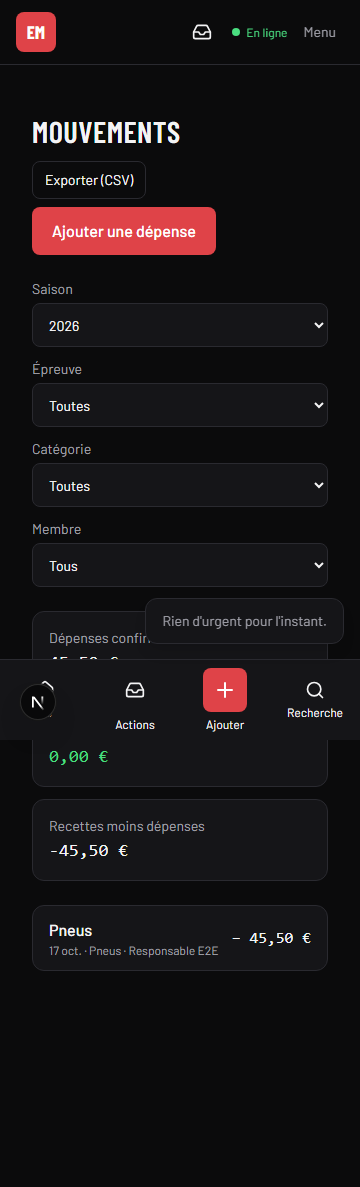
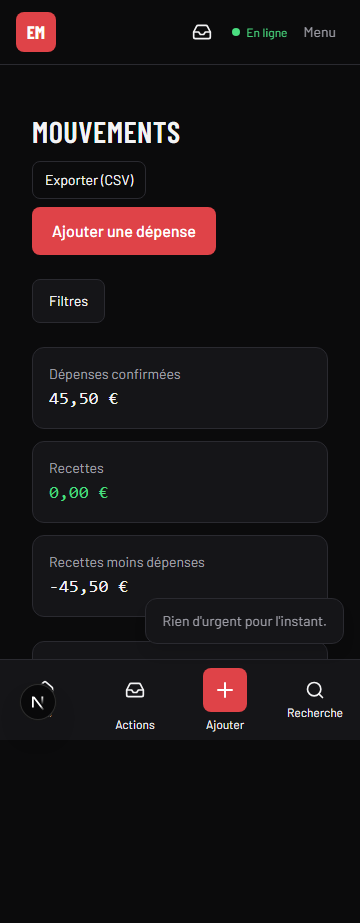
Teste et documente les liaisons Saison-Budget (2.7)
E2E : paiement d'engagement proposé et confirmé sans doublon ; dépense
d'engagement puis « marquer payé » sans nouvelle proposition ; tiroir de
filtres, onglet Dépenses, solde, modification et suppression ; captures.
Vérifications : db:verifier-bus (section 14, non-boucle dans les deux sens,
widgets, modification et suppression), db:verifier-synchro (dépenses hors
ligne : création, refus de la caisse pour l'assistance, modification,
suppression). Documentation : schémas, événements, contrat d'onglets, synchro,
journal.

diff --git a/e2e/budget-saison.spec.ts b/e2e/budget-saison.spec.ts
@@ -1,0 +1,170 @@
+import type { Page } from "@playwright/test"
+
+import { expect, test } from "./aide/fixtures"
+import { connecterParLien } from "./aide/navigation"
+import { ajouterVoitureDeCourse, depenseBudgetParLibelle, depensesBudgetEnBase, preparerSaison, rattacherPersonne } from "./aide/session"
+
+// Liaisons Saison et Budget (tâche 2.7) : un paiement d'engagement dans Saison propose une dépense dans Budget ;
+// une dépense d'engagement saisie dans Budget demande « marquer payé » à Saison, sans boucle. Plus l'onglet
+// Dépenses de la fiche épreuve, le tiroir de filtres sur téléphone, le solde de la barre haute, et la
+// modification et suppression d'une dépense.
+
+const SAISON = 2026
+
+// Crée une épreuve, puis engage la voiture de test. Renvoie l'adresse de la fiche épreuve et celle de l'engagement.
+async function engagerLaVoiture(page: Page): Promise<{ fiche: string; engagement: string; entryId: string }> {
+  await page.goto("/apps/saison/nouvelle")
+  await page.getByLabel("Nom de l'épreuve").fill("Rallye liaison e2e")
+  await page.getByLabel("Premier jour").fill(`${SAISON}-06-10`)
+  await page.getByLabel("Dernier jour").fill(`${SAISON}-06-11`)
+  await page.getByRole("button", { name: "Ajouter l'épreuve" }).click()
+  await expect(page).toHaveURL(/\/apps\/saison\/epreuves\/[0-9a-f-]+/)
+  const fiche = page.url().split("?")[0]
+  await page.goto(`${fiche}?onglet=engagements`)
+  await page.getByLabel("Voiture").selectOption({ label: "Saxo test e2e" })
+  await page.getByRole("button", { name: "Engager la voiture" }).click()
+  await expect(page.getByText("Saxo test e2e").first()).toBeVisible()
+  await page.getByRole("link", { name: /Saxo test e2e/ }).first().click()
+  const engagement = page.url().split("?")[0]
+  return { fiche, engagement, entryId: engagement.split("/").pop() ?? "" }
+}
+
+test("liaison : un paiement d'engagement propose une dépense, confirmée depuis À confirmer, sans doublon", async ({ page, equipe }) => {
+  test.setTimeout(240_000)
+  await preparerSaison(equipe, SAISON)
+  await ajouterVoitureDeCourse(equipe)
+  await rattacherPersonne(equipe, equipe.responsable, "Responsable", "E2E")
+  await connecterParLien(page, equipe)
+  await page.setViewportSize({ width: 1440, height: 900 })
+
+  const { engagement } = await engagerLaVoiture(page)
+  await page.getByLabel("Montant payé (€)").fill("450")
+  await page.getByLabel("Payeur").selectOption({ index: 1 })
+  await page.getByRole("button", { name: "Enregistrer le paiement" }).click()
+  await expect(page.getByText("Enregistré.")).toBeVisible()
+
+  // Une seule proposition dans À confirmer, de 450 €.
+  await page.goto("/apps/budget/a-confirmer")
+  await expect(page.getByRole("heading", { name: /Engagement Rallye liaison e2e/ })).toBeVisible()
+  await expect(page.getByRole("heading", { name: /Engagement Rallye liaison e2e/ })).toHaveCount(1)
+  await page.getByRole("button", { name: "Confirmer" }).click()
+  await expect(page.getByRole("heading", { name: /Engagement Rallye liaison e2e/ })).toHaveCount(0)
+  await expect.poll(async () => (await depensesBudgetEnBase(equipe)).some((d) => d.libelle.startsWith("Engagement Rallye") && d.montant === 45_000)).toBe(true)
+
+  // Une seule dépense pour cet engagement, après la confirmation (le second paiement est couvert par db:verifier-bus).
+  expect((await depensesBudgetEnBase(equipe)).filter((d) => d.libelle.startsWith("Engagement Rallye")).length).toBe(1)
+  void engagement
+})
+
+test("liaison : une dépense d'engagement saisie dans Budget demande « marquer payé » à Saison, sans nouvelle proposition", async ({ page, equipe }) => {
+  test.setTimeout(240_000)
+  await preparerSaison(equipe, SAISON)
+  await ajouterVoitureDeCourse(equipe)
+  await rattacherPersonne(equipe, equipe.responsable, "Responsable", "E2E")
+  await connecterParLien(page, equipe)
+  await page.setViewportSize({ width: 1440, height: 900 })
+
+  const { fiche, engagement } = await engagerLaVoiture(page)
+  const eventId = fiche.split("/").pop() ?? ""
+
+  // La dépense d'engagement, saisie dans Budget et rattachée à l'engagement.
+  await page.goto(`/apps/budget/nouvelle?epreuve=${eventId}`)
+  await page.getByLabel("Montant (€)").fill("450")
+  await page.getByLabel("Catégorie", { exact: true }).selectOption({ label: "Engagement" })
+  await page.getByText("Plus de détails").click()
+  await page.getByLabel(/Engagement concerné/).selectOption({ index: 1 })
+  await page.getByRole("button", { name: "Ajouter la dépense" }).click()
+  await expect(page.getByText("Enregistré. La dépense part")).toBeVisible()
+
+  // Dans la boîte d'actions du QG : Saison demande de marquer l'engagement payé. On décide : il est payé.
+  await expect.poll(async () => (await depensesBudgetEnBase(equipe)).some((d) => d.libelle === "Engagement" && d.montant === 45_000)).toBe(true)
+  await page.goto("/qg")
+  await page.getByRole("button", { name: /Boîte d'actions/ }).click()
+  await expect(page.getByText("Marquer l'engagement comme payé ?").first()).toBeVisible()
+  await page.getByRole("button", { name: "Marquer payé" }).first().click()
+  await page.goto(engagement)
+  await expect(page.getByText("Payé").first()).toBeVisible()
+
+  // Le paiement qui suit ne propose rien à Budget : aucune proposition pour cet engagement.
+  await page.goto("/apps/budget/a-confirmer")
+  await expect(page.getByRole("heading", { name: /Engagement Rallye liaison e2e/ })).toHaveCount(0)
+})
+
+test("budget : tiroir de filtres et pastilles sur téléphone, onglet Dépenses, solde, modification et suppression", async ({ page, equipe }) => {
+  test.setTimeout(240_000)
+  await preparerSaison(equipe, SAISON)
+  await ajouterVoitureDeCourse(equipe)
+  await rattacherPersonne(equipe, equipe.responsable, "Responsable", "E2E")
+  await connecterParLien(page, equipe)
+  await page.setViewportSize({ width: 1440, height: 900 })
+
+  const { fiche } = await engagerLaVoiture(page)
+  const eventId = fiche.split("/").pop() ?? ""
+  await page.goto(`/apps/budget/nouvelle?epreuve=${eventId}`)
+  await page.getByLabel("Montant (€)").fill("30,00")
+  await page.getByLabel("Catégorie", { exact: true }).selectOption({ label: "Péages" })
+  await page.getByRole("button", { name: "Ajouter la dépense" }).click()
+  await expect.poll(async () => (await depensesBudgetEnBase(equipe)).some((d) => d.libelle === "Péages")).toBe(true)
+
+  // Solde de la barre haute : une dépense confirmée, pas de recette, donc négatif.
+  await page.goto("/apps/budget")
+  const commencer = page.getByRole("button", { name: "Commencer" })
+  if (await commencer.isVisible().catch(() => false)) await commencer.click()
+  await expect(page.getByRole("link", { name: /Solde de la saison/ })).toBeVisible()
+
+  // Onglet Dépenses de la fiche épreuve : la dépense y figure, avec le bouton de saisie prérempli.
+  await page.goto(`${fiche}?onglet=depenses`)
+  await expect(page.getByRole("link", { name: "Ajouter une dépense" })).toHaveAttribute("href", `/apps/budget/nouvelle?epreuve=${eventId}`)
+  await expect(page.getByText("Péages").first()).toBeVisible()
+
+  // Téléphone : les filtres sont dans un tiroir ; un filtre actif devient une pastille retirable.
+  await page.setViewportSize({ width: 360, height: 740 })
+  await page.goto("/apps/budget")
+  await page.getByRole("button", { name: /^Filtres/ }).click()
+  await page.getByRole("dialog").getByRole("combobox", { name: "Catégorie" }).selectOption({ label: "Péages" })
+  await page.keyboard.press("Escape")
+  await expect(page.getByRole("list", { name: "Filtres actifs" }).getByText("Péages")).toBeVisible()
+
+  // Modification puis suppression de la dépense (case de confirmation).
+  const depense = await depenseBudgetParLibelle(equipe, "Péages")
+  await page.goto(`/apps/budget/mouvement/${depense?.id ?? ""}`)
+  await page.getByLabel("Montant (€)").fill("35,00")
+  await page.getByRole("button", { name: "Enregistrer les modifications" }).click()
+  await expect(page.getByText("Enregistré.")).toBeVisible()
+  await expect.poll(async () => (await depenseBudgetParLibelle(equipe, "Péages"))?.montant).toBe(3500)
+  await page.getByLabel("Je confirme la suppression de ce mouvement.").check()
+  await page.getByRole("button", { name: "Supprimer" }).click()
+  await expect.poll(async () => depenseBudgetParLibelle(equipe, "Péages")).toBeNull()
+})
+
+// Captures : barre haute avec le solde, onglet Dépenses de la fiche épreuve, tiroir de filtres (téléphone).
+test("captures des liaisons : barre haute, onglet Dépenses, tiroir de filtres", async ({ page, equipe }) => {
+  test.setTimeout(240_000)
+  await preparerSaison(equipe, SAISON)
+  await ajouterVoitureDeCourse(equipe)
+  await rattacherPersonne(equipe, equipe.responsable, "Responsable", "E2E")
+  await connecterParLien(page, equipe)
+  await page.setViewportSize({ width: 1440, height: 900 })
+  const { fiche } = await engagerLaVoiture(page)
+  const eventId = fiche.split("/").pop() ?? ""
+  await page.goto(`/apps/budget/nouvelle?epreuve=${eventId}`)
+  await page.getByLabel("Montant (€)").fill("120,00")
+  await page.getByLabel("Catégorie", { exact: true }).selectOption({ label: "Péages" })
+  await page.getByRole("button", { name: "Ajouter la dépense" }).click()
+  await expect.poll(async () => (await depensesBudgetEnBase(equipe)).some((d) => d.libelle === "Péages")).toBe(true)
+
+  await page.goto("/apps/budget")
+  const commencer = page.getByRole("button", { name: "Commencer" })
+  if (await commencer.isVisible().catch(() => false)) await commencer.click()
+  await expect(page.getByRole("link", { name: /Solde de la saison/ })).toBeVisible()
+  await page.screenshot({ path: "docs/captures/budget-barre-haute-1440x900.png" })
+  await page.goto(`${fiche}?onglet=depenses`)
+  await page.screenshot({ path: "docs/captures/budget-onglet-depenses-1440x900.png", fullPage: true })
+
+  await page.setViewportSize({ width: 360, height: 740 })
+  await page.goto(`${fiche}?onglet=depenses`)
+  await page.screenshot({ path: "docs/captures/budget-onglet-depenses-360x740.png", fullPage: true })
+  await page.goto("/apps/budget")
+  await page.getByRole("button", { name: /^Filtres/ }).click()
+  await page.screenshot({ path: "docs/captures/budget-filtres-tiroir-360x740.png" })
+})

diff --git a/scripts/verifier-bus.ts b/scripts/verifier-bus.ts
@@ -60,7 +60,8 @@ async function main() {
 
     const ctx = { teamId: team.id, userId: utilisateur.id, membership: { id: adhesion, role: "responsable" as const } }
 
-    // 1. Un événement d'app vers un abonné explicite : livré, sans gestionnaire, marqué traité.
+    // 1. Un événement d'app vers un abonné explicite : livré, marqué traité, sans erreur.
+    //    (Budget écoute saison.engagement_paye depuis la 2.7 ; une charge utile invalide est ignorée sans erreur.)
     const idPaye = await emettre(ctx, "saison.engagement_paye", { demo: true })
     const livraisonsPaye = await proprietaire.coreEventDelivery.findMany({ where: { domainEventId: idPaye } })
     controle(
@@ -69,8 +70,8 @@ async function main() {
       `livraisons : ${livraisonsPaye.length}`,
     )
     controle(
-      "la livraison est traitée, sans gestionnaire",
-      livraisonsPaye[0]?.statut === "traite" && livraisonsPaye[0]?.derniereErreur === "aucun gestionnaire",
+      "la livraison est traitée, sans erreur",
+      livraisonsPaye[0]?.statut === "traite" && livraisonsPaye[0]?.derniereErreur === null,
       `statut : ${livraisonsPaye[0]?.statut}`,
     )
 
@@ -426,6 +427,50 @@ async function main() {
       refusRemb = erreur instanceof budget.ErreurBudget ? erreur.message : String(erreur)
     }
     controle("un remboursement qui dépasse le reste dû est refusé", refusRemb.includes("dépasse"), refusRemb)
+
+    // 14. Liaisons Saison-Budget (tâche 2.7) : une app propose, elle n'écrit jamais chez l'autre ; pas de boucle
+    //     dans les deux sens ; un seul mouvement ; widgets lus en base ; modification et suppression d'une dépense.
+    const liaisons = await import("../src/apps/budget/liaisons-serveur")
+    const widgets = await import("../src/apps/budget/widgets-serveur")
+    controle("aucune proposition pour l'engagement avant le premier paiement", (await proprietaire.budgetSuggestion.count({ where: { teamId: team.id, entryId: entryFuture, deletedAt: null } })) === 0)
+    await emettre(ctx, "saison.engagement_paye", { entryId: entryFuture, eventId: epreuveFutureBus.id, montant_paye: 45_000, devise: "EUR", payeurPersonId: personneBus })
+    await emettre(ctx, "saison.engagement_paye", { entryId: entryFuture, eventId: epreuveFutureBus.id, montant_paye: 46_000, devise: "EUR", payeurPersonId: personneBus })
+    const propositions = await proprietaire.budgetSuggestion.findMany({ where: { teamId: team.id, entryId: entryFuture, deletedAt: null } })
+    controle(
+      "un paiement d'engagement propose une dépense ; le second paiement met à jour la même proposition",
+      propositions.length === 1 && propositions[0].montant === 46_000 && propositions[0].statut === "en_attente",
+      JSON.stringify(propositions.map((p) => [p.montant, p.statut])),
+    )
+    const actionProposition = await proprietaire.coreAction.findFirst({ where: { teamId: team.id, cleUnicite: propositions[0]?.actionCle ?? "" } })
+    await decider(ctx, actionProposition?.id ?? "", "confirmer")
+    const depenseDeSaison = await proprietaire.budgetExpense.findFirst({ where: { teamId: team.id, entryId: entryFuture, deletedAt: null } })
+    controle("la confirmation crée la dépense, confirmée, avec l'origine saison:<entrée>", depenseDeSaison?.confirmee === true && depenseDeSaison?.origineRef === `saison:${entryFuture}`, depenseDeSaison?.origineRef ?? "aucune dépense")
+    controle("une dépense venant de Saison ne demande pas de « marquer payé » en retour", (await proprietaire.coreAction.count({ where: { teamId: team.id, cleUnicite: `marquer_paye:${entryFuture}` } })) === 0)
+    controle("un seul mouvement pour cet engagement, après les deux paiements et la confirmation", (await proprietaire.budgetExpense.count({ where: { teamId: team.id, entryId: entryFuture, deletedAt: null } })) === 1)
+
+    // Dans l'autre sens : une dépense d'engagement saisie dans Budget demande « marquer payé » à Saison, et le
+    // paiement qui suit ne propose plus rien à Budget.
+    const entreeDirecte = await creerEngagementDans(ctx, { eventId: epreuveBudget, vehicleId: vehiculeBus.id })
+    await budget.creerDepenseDans(ctx, { montant: 30_000, categoryId: catEngagement, libelle: "Engagement direct", eventId: epreuveBudget, entryId: entreeDirecte, payerId: payeurMoi?.id ?? "" }, "ecriture")
+    controle("une dépense d'engagement saisie dans Budget demande « marquer payé » à Saison", (await proprietaire.coreAction.count({ where: { teamId: team.id, cleUnicite: `marquer_paye:${entreeDirecte}`, statut: "en_attente" } })) === 1)
+    const lue = await liaisons.lireDepenseEngagementDans(ctx, entreeDirecte)
+    controle("Saison lit la dépense d'engagement par la fonction de Budget", lue.montant === 30_000 && lue.mode === "virement", JSON.stringify(lue))
+    await emettre(ctx, "saison.engagement_paye", { entryId: entreeDirecte, eventId: epreuveBudget, montant_paye: 30_000, devise: "EUR", payeurPersonId: personneBus })
+    controle("le paiement de cet engagement ne propose rien en retour : pas de boucle", (await proprietaire.budgetSuggestion.count({ where: { teamId: team.id, entryId: entreeDirecte, deletedAt: null } })) === 0)
+
+    // Widgets lus en base.
+    controle("le widget « mouvements à confirmer » compte les suggestions en attente", (await widgets.widgetMouvementsAConfirmerDans(ctx)) === (await proprietaire.budgetSuggestion.count({ where: { teamId: team.id, statut: "en_attente", deletedAt: null } })))
+    const widgetSaison = await widgets.widgetSaisonContrePrevisionnelDans(ctx)
+    controle("le widget saison renvoie rien tant qu'aucune saison n'est en cours, ou un chiffre réel", widgetSaison === null || typeof widgetSaison.reelCentimes === "number")
+
+    // Modification et suppression d'une dépense (même règle en ligne et en synchro).
+    const idSaison = depenseDeSaison?.id ?? ""
+    await budget.modifierDepenseDans(ctx, idSaison, { montant: 47_000, categoryId: catEngagement, libelle: "Engagement modifié", payerId: depenseDeSaison?.payerId ?? "", eventId: epreuveBudget }, "ecriture")
+    const modifiee = await proprietaire.budgetExpense.findUnique({ where: { id: idSaison } })
+    controle("une dépense modifiée prend ses nouveaux montant et libellé", modifiee?.montant === 47_000 && modifiee?.libelle === "Engagement modifié")
+    await budget.supprimerDepenseDans(ctx, idSaison, "ecriture")
+    const supprimee = await proprietaire.budgetExpense.findUnique({ where: { id: idSaison } })
+    controle("une dépense supprimée reste en base, marquée supprimée", supprimee?.deletedAt != null)
 
     console.log("\nBus et boîte d'actions vérifiés : tous les contrôles passent.")
   } finally {

diff --git a/scripts/verifier-synchro.ts b/scripts/verifier-synchro.ts
@@ -254,6 +254,37 @@ async function main(): Promise<void> {
       operation({ table: "saison_recce_session", type: "creer", id: newId(), champs: { recceId: recceSync, date: "2032-06-02", personnes: [], speciales: [], passages: null, notes: null } }),
     ])
     controle("une saison clôturée n'accepte plus de sortie hors ligne", apresCloture[0]?.statut === "refusee" && /clôturée/.test(apresCloture[0]?.raison ?? ""))
+
+    // Budget hors ligne (tâche 2.7, section 0) : l'équipier saisit, modifie et supprime sa dépense par la même
+    // synchro ; il ne saisit pas la dépense payée par la caisse ; chaque création émet ses événements une fois.
+    const budgetServices = await import("../src/apps/budget/services-serveur")
+    await budgetServices.initialiserBudgetDans(ctxA)
+    const personneEquipier = newId()
+    await bd.corePerson.create({ data: { id: personneEquipier, teamId, nom: "Equipier", prenom: "Synchro" } })
+    await bd.coreMembership.update({ where: { id: eqMemId }, data: { personId: personneEquipier } })
+    await budgetServices.initialiserBudgetDans(ctxA)
+    const categorieRepas = await bd.budgetCategory.findFirst({ where: { teamId, nom: "Repas", sens: "depense" }, select: { id: true } })
+    const payeurEquipier = await bd.budgetPayer.findFirst({ where: { teamId, personId: personneEquipier }, select: { id: true } })
+    const caisse = await bd.budgetPayer.findFirst({ where: { teamId, type: "caisse_team" }, select: { id: true } })
+    const idDepenseHL = newId()
+    const champsDepense = { date: "2032-06-03", montant: 1200, categoryId: categorieRepas?.id ?? "", libelle: "Repas synchro", payerId: payeurEquipier?.id ?? "", eventId: null, moyen: null }
+    const creationHL = await appliquerOperations(ctxEquipage, devA, [operation({ table: "budget_expense", type: "creer", id: idDepenseHL, champs: champsDepense })])
+    const depenseHL = await bd.budgetExpense.findUnique({ where: { id: idDepenseHL } })
+    controle("l'équipier saisit une dépense hors ligne : appliquée, confirmée, à rembourser", creationHL[0]?.statut === "appliquee" && depenseHL?.confirmee === true && depenseHL?.aRembourser === true)
+    // L'assistance (contribution) ne saisit que ce qu'elle paie elle-même : la caisse est refusée. (L'équipage,
+    // qui a l'écriture, peut payer avec la caisse.)
+    const refusCaisse = await appliquerOperations(ctxB, devB, [operation({ table: "budget_expense", type: "creer", id: newId(), champs: { ...champsDepense, payerId: caisse?.id ?? "" } })])
+    controle("l'assistance ne saisit pas une dépense payée par la caisse", refusCaisse[0]?.statut === "refusee" && /toi-même/.test(refusCaisse[0]?.raison ?? ""))
+    const evenementsCreation = await bd.coreDomainEvent.count({ where: { teamId, nom: "budget.depense_creee" } })
+    controle("la création hors ligne émet budget.depense_creee une seule fois", evenementsCreation === 1)
+
+    const revAvantModif = (await bd.budgetExpense.findUnique({ where: { id: idDepenseHL } }))?.rev ?? 1
+    const modifHL = await appliquerOperations(ctxEquipage, devA, [operation({ table: "budget_expense", type: "modifier", id: idDepenseHL, revLue: revAvantModif, champs: { ...champsDepense, montant: 1500 } })])
+    controle("la modification hors ligne est appliquée", modifHL[0]?.statut === "appliquee" && (await bd.budgetExpense.findUnique({ where: { id: idDepenseHL } }))?.montant === 1500)
+
+    const revAvantSuppr = (await bd.budgetExpense.findUnique({ where: { id: idDepenseHL } }))?.rev ?? 1
+    const supprHL = await appliquerOperations(ctxEquipage, devA, [operation({ table: "budget_expense", type: "supprimer", id: idDepenseHL, revLue: revAvantSuppr })])
+    controle("la suppression hors ligne est appliquée", supprHL[0]?.statut === "appliquee" && (await bd.budgetExpense.findUnique({ where: { id: idDepenseHL } }))?.deletedAt != null)
   } finally {
     await nettoyer([teamId, teamAutreId], [respUserId, assUserId, eqUserId], [devA, devB])
     console.log("Nettoyage fait.")

diff --git a/e2e/aide/session.ts b/e2e/aide/session.ts
@@ -350,3 +350,12 @@ export async function rembourseEnBase(equipe: Equipe, personneId: string): Promi
   )
   return rows[0].total
 }
+
+// Dépense de Budget de la team à ce libellé, non supprimée : son identifiant et son montant en centimes.
+export async function depenseBudgetParLibelle(equipe: Equipe, libelle: string): Promise<{ id: string; montant: number } | null> {
+  const { rows } = await bd().query<{ id: string; montant: number }>(
+    "SELECT id, montant FROM budget_expense WHERE team_id = $1 AND libelle = $2 AND deleted_at IS NULL ORDER BY created_at DESC LIMIT 1",
+    [equipe.teamId, libelle],
+  )
+  return rows[0] ?? null
+}

diff --git a/docs/schema-budget.md b/docs/schema-budget.md
@@ -109,11 +109,40 @@ Sans écriture, une dépense n'est saisie qu'au nom de son payeur (celui qui la 
 - `pnpm db:verifier-rls` : huit tables `budget_` avec RLS forcé, politique et droits du rôle applicatif ; une catégorie et une dépense de la team B invisibles ou refusées sous le contexte A.
 - `pnpm db:verifier-bus` (section 13) : initialisation idempotente (15 dépenses, 7 recettes, une caisse, un payeur membre) ; dépense confirmée d'office, à rembourser, rattachée à la saison ; événements émis une fois ; dépassement une seule fois ; niveau contribution (caisse refusée, sa propre dépense passe) ; suggestion confirmée par la boîte, dépense créée avec son origine ; décision refusée remise en attente avec son motif ; remboursement partiel et trop refusé.
 
+## Liaisons avec Saison (tâche 2.7)
+
+Règle : une app propose, elle n'écrit jamais chez l'autre. Budget n'écrit aucune table `saison_`, Saison n'écrit aucune table `budget_`. Tout passe par les événements du catalogue et `core.action_decidee`.
+
+- **Engagement payé vers dépense proposée** (`src/apps/budget/liaisons-serveur.ts`) : sur `saison.engagement_paye`, une dépense d'engagement est proposée (catégorie de clé `engagement`, montant `montant_paye`, payeur = `payeurPersonId` ou la caisse). Une seule proposition en attente par engagement : un second paiement la met à jour (même clé d'action). Rien si une dépense d'engagement est déjà confirmée pour cet engagement. À la confirmation, la dépense porte `origine` proposee et `origine_ref` `saison:<entryId>`.
+- **Dépense d'engagement vers « marquer payé »** (`src/apps/saison/services-serveur.ts`) : sur `budget.depense_creee`, si la dépense est de catégorie `engagement`, rattachée à un engagement non payé, et non issue de Saison (`origine_ref` ne commence pas par `saison:`), Saison demande « Marquer l'engagement comme payé ? » (clé `marquer_paye:<entryId>`). La décision lit la dépense par `lireDepenseEngagementDans` (fonction de Budget) et appelle `enregistrerPaiementDans`. Mode : chèque, virement ou en ligne ; les espèces deviennent un virement (Saison n'a pas d'espèces).
+- **Pas de boucle** : une proposition venant de Saison ne déclenche pas la demande « marquer payé » ; un paiement d'engagement dont une dépense est déjà confirmée ne propose rien. Vérifié dans les deux sens par `db:verifier-bus` (section 14).
+
+## Modifier et supprimer (tâche 2.7, section 0)
+
+- Une dépense se modifie et se supprime en ligne (`modifierDepense`, `supprimerDepense`) et depuis l'appareil (registre de synchro). Même règle : `src/apps/budget/depenses-tx.ts`.
+- Écriture : tout mouvement. Contribution : seulement les dépenses dont le payeur est sa personne.
+- Une modification ne fait pas descendre le montant sous ce qui a déjà été remboursé, et ne change pas le payeur d'une dépense remboursée. Une dépense remboursée ne se supprime pas. La suppression est douce (`deleted_at`), après case de confirmation.
+- Les recettes se modifient et se suppriment en écriture (`modifierRecette`, `supprimerRecette`).
+- Page : `/apps/budget/mouvement/[id]`.
+
+## Lectures pour Saison et le QG
+
+- `coutDeLEpreuve(eventId)` : coût réel de l'épreuve, ou rien (jamais un zéro trompeur).
+- `lireSoldeBarreHaute()` : « Mon solde » en contribution, sinon le solde de la saison en cours (recettes encaissées moins dépenses confirmées). Affiché dans la barre haute.
+- `lireDepensesEpreuve(eventId)` : onglet Dépenses de la fiche épreuve (composant `PanneauDepensesEpreuve`).
+- `lireKmChronometresValides(saisonId)` (Saison) : km des résultats validés, pour le coût du km (page Par épreuve).
+- Widgets (`src/apps/budget/widgets-serveur.ts`) : saison contre prévisionnel, mon solde, mouvements à confirmer. Pas d'affichage avant le lot 6.
+
+## Écrans ajoutés
+
+- Filtres sur téléphone : un bouton « Filtres » ouvre un tiroir du bas (même composant que le menu +). Les filtres actifs s'affichent en pastilles retirables.
+- Par épreuve : prévu de l'épreuve à côté du réel, avec l'écart en couleur ; coût moyen d'un rallye ; coût du km chronométré.
+- Nouvelle dépense : engagement concerné, et épreuve préremplie depuis la fiche épreuve.
+
 ## Non fait ou à trancher
 
-- Modifier une dépense (catégorie, montant, payeur) depuis la fiche : le service n'existe pas encore. Aujourd'hui une erreur se corrige par une nouvelle saisie ou un remboursement. À faire après confirmation des règles d'annulation.
-- Justificatifs (`justificatif_file_id`) : colonne prête, pas de fichier avant le lot 5.
-- PDF de bilan : lot 3.
-- Liaison avec Saison (lot 2.7) : les km des coûts au km sont passés en paramètre.
-- Le contrôle de dépassement ne compare que le prévisionnel de saison (sans épreuve). Le prévisionnel par épreuve est enregistré et affiché dans les services, pas encore comparé.
-- Le gestionnaire de décision est enregistré par `src/apps/gestionnaires-serveur.ts`, chargé par le traitement des événements (correctif de la section 0 de 2.6).
+- Filtres en tiroir du calendrier de Saison : non fait (même traitement que Budget, à reprendre).
+- Modification et suppression hors ligne depuis l'écran : la synchro les accepte (registre), l'écran reste en ligne.
+- Le solde de la barre haute ne s'affiche qu'à partir de md (téléphone : pas de solde dans la barre).
+- Le prévisionnel par épreuve est affiché dans Par épreuve, pas dans l'écran Prévisionnel (par saison).
+- Justificatifs (`justificatif_file_id`) : lot 5. PDF de bilan : lot 3.

diff --git a/documentation/JOURNAL.md b/documentation/JOURNAL.md
@@ -44,3 +44,4 @@
 - Saison, préparation, reconnaissances, rappels et hors ligne (2.4, dernière tâche de l'étape Saison) : section 0 (clôture proposée levée à la clôture, écritures masquées sur saison clôturée, libellés français dans `libelles.ts` avec test sur le schéma, onglets défilants, motif de refus affiché dans la boîte via `core_action.message_refus`, menu d'app du manifeste). Correctifs trouvés au passage : rôle de l'acteur figé à « responsable » dans les lectures (l'équipage pouvait voir « Valider » sur sa propre saisie), et décalage horaire fixe +02:00 remplacé par l'heure de Paris réelle. Onglet « Prêt pour l'épreuve ? » (indice, cinq points, signaux des apps Équipe et Voiture). Onglet Reconnaissances (règles et sorties). Rappels calculés par règle pure et créés ou levés par différence. Widgets Saison et source unique de la prochaine épreuve pour le QG. Hors ligne : six tables de Saison dans la synchro (lecture seule, contribution propre, débrief privé), base locale en version 2, pages de la prochaine épreuve préchargées. Vérifications : bus (préparation, refus, relance), synchro (lecture seule, débrief, clôture), RLS, e2e hors ligne.
 - Budget, schéma et services (2.5) : section 0 terminée d'abord (débrief hors ligne, écrit dans la base locale et synchronisé, événement `saison.debrief_saisi` émis par la synchro ; convention des charges utiles documentée). Huit tables `budget_` (migration `budget_schema`, RLS forcé, CHECK et index partiel ajoutés à la main), règles pures testées, services sans écran (dépenses, recettes, remboursements, prévisionnel, suggestions confirmées par la boîte d'actions), contribution filtrée côté serveur, script `db:initialiser-budget` (catégories, caisse, payeurs membres ; idempotent). Correctif du socle : une livraison d'événement en cours n'était pas protégée contre sa propre relance (boucle infinie quand un gestionnaire émet). Vérifications : tests (354), bus (section 13 Budget), RLS (huit tables), synchro, e2e débrief hors ligne. Documentation : `docs/schema-budget.md`, `docs/evenements.md`.
 - Budget, écrans et hors ligne (2.6) : section 0 (gestionnaires d'événements enregistrés en un seul point, `src/apps/gestionnaires-serveur.ts`, importé par le traitement ; Budget initialisé à la volée ; le niveau lecture voit tout, seule la contribution est limitée). Écrans : mouvements (filtres dans l'URL, fiche à droite ou pleine page), nouvelle dépense en trois champs (bouton + du QG, hors ligne), nouvelle recette, à confirmer, par épreuve, par membre (remboursement), prévisionnel, export CSV. Hors ligne : `budget_expense` en contribution propre, catégories et payeurs en lecture. Colonne `budget_suggestion.payer_id` (payeur d'un mouvement proposé). Date sans épreuve : saison dont les dates contiennent le jour. Vérifications : tests (380), build isolé, e2e complet (36), e2e Budget (mouvements, solde, remboursements, proposition confirmée, assistance limitée, export, hors ligne), bus, synchro, RLS. Captures Budget dans `docs/captures/budget-*`. Documentation : `docs/schema-budget.md`, `docs/synchro.md`.
+- Liaisons Saison et Budget, finitions du lot 2 (2.7) : section 0 (modification et suppression d'une dépense ou d'une recette, en ligne et en synchro, avec les règles de remboursement ; tiroir de filtres sur téléphone et pastilles ; prévu par épreuve). Liaisons sans boucle : un paiement d'engagement dans Saison propose une dépense dans Budget (une seule en attente) ; une dépense d'engagement saisie dans Budget demande « marquer payé » à Saison. Solde dans la barre haute, onglet Dépenses de la fiche épreuve (contrat d'onglets dans le socle), coût de l'épreuve et coût du km, widgets Budget testés en base. Vérifications : tests unitaires, db:verifier-bus (section 14), db:verifier-synchro (dépenses hors ligne, modification, suppression), db:verifier-rls, e2e liaisons et captures. Documentation : docs/schema-budget.md, docs/schema-saison.md, docs/evenements.md, docs/app-sdk.md, docs/synchro.md.

diff --git a/docs/schema-saison.md b/docs/schema-saison.md
@@ -295,3 +295,12 @@ Déclarations dans `synchro-serveur.ts`, registre dans `registre.ts` :
 - **Destinataires figés par membership** : un équipier ajouté après l'émission ne reçoit pas les rappels déjà émis (accepté, limite connue).
 - **Clôture écartée** : la proposition de clôture n'est pas relancée une fois écartée (accepté, limite connue).
 - **Fichiers de preuve** : hors périmètre tant que le lot 5 n'envoie pas de fichiers.
+
+## Liaisons avec Budget (tâche 2.7)
+
+- Saison propose à Budget un paiement d'engagement (`saison.engagement_paye`) : Budget propose une dépense d'engagement, une seule en attente par engagement.
+- Budget demande à Saison de marquer un engagement payé quand une dépense d'engagement est saisie (`budget.depense_creee`) : action `marquer_engagement_paye`, clé `marquer_paye:<entryId>`. La décision enregistre le paiement avec la date, le montant, le mode et le payeur de la dépense, lus par une fonction de Budget (`lireDepenseEngagementDans`).
+- Pas de boucle (détails dans `docs/schema-budget.md`, section Liaisons).
+- Fiche épreuve : onglet « Dépenses » quand Budget est activée et que le membre a la contribution (contrat d'onglets, `src/core/sdk/onglets.ts`). Le composant est fourni par Budget.
+- Fin d'épreuve : ligne « Coût de l'épreuve » (Budget), seulement s'il existe une dépense.
+- Par épreuve (Budget) : km chronométrés validés lus par `lireKmChronometresValides` (Saison).

diff --git a/docs/app-sdk.md b/docs/app-sdk.md
@@ -87,3 +87,13 @@ Une table n'est synchronisée que si elle est déclarée dans le registre de la 
 5. Vérifier : `pnpm test`, `pnpm db:verifier-synchro` (à étendre pour la nouvelle table), et un test e2e hors ligne.
 
 Côté écran : `useTable("<table>")` lit la base locale, `useMoteurSynchro().ecrireLocal(...)` écrit. Une écriture n'attend jamais le réseau. Détails et limites : `docs/synchro.md`.
+
+## Onglets de fiche apportés par une autre app (tâche 2.7)
+
+Une app peut ajouter un onglet à la fiche d'une autre app. Le contrat est dans `src/core/sdk/onglets.ts` :
+
+1. Déclarer l'onglet dans la liste de la fiche : `{ cle, libelle, app, niveauMinimum }` (par exemple `ONGLETS_FICHE_EPREUVE`).
+2. Dans la page de la fiche, appeler `ongletsVisibles(contexte, liste)` : l'onglet n'est retenu que si son app est activée pour la team et que le membre a au moins `niveauMinimum`.
+3. Ajouter l'onglet à la barre (`Onglets`), et rendre le composant serveur de l'app, qui appelle ses propres fonctions de lecture. L'app qui possède la fiche ne lit jamais les tables de l'autre.
+
+Exemple : Budget fournit l'onglet « Dépenses » de la fiche épreuve (`PanneauDepensesEpreuve`). Garage, Médias et Check-lists pourront suivre le même chemin.

diff --git a/docs/evenements.md b/docs/evenements.md
@@ -109,3 +109,10 @@ Charges utiles des événements de Budget : voir `docs/schema-budget.md` (sectio
 pnpm db:verifier-bus   # bus, livraisons, boîte d'actions, décision, levée, cloisonnement
 pnpm test
 ```
+
+## Liaisons Saison et Budget (tâche 2.7)
+
+- `saison.engagement_paye` (Saison vers Budget) : Budget propose une dépense d'engagement. Charge utile lue : `{ entryId, eventId, montant_paye, payeurPersonId? }`. Une seule proposition en attente par `entryId`.
+- `budget.depense_creee` (Budget vers Saison) : Saison demande « marquer payé » pour une dépense d'engagement. Charge utile : `{ depenseId, montant, date, categoryId, categorieCle, payerId, personneId, eventId, seasonId, entryId, origineRef }`. `categorieCle` vaut `engagement` pour la catégorie d'engagement ; `origineRef` vaut `saison:<entryId>` pour une proposition venant de Saison.
+- Action `marquer_engagement_paye` (Saison) : `cleUnicite` `marquer_paye:<entryId>`, boutons `marquer_paye` et `ignorer`.
+- Budget émet `budget.depense_creee` par `emettreDepenseCreee` (une seule source, en ligne comme en synchro). Une modification ou une suppression émet `budget.solde_modifie`.

diff --git a/docs/synchro.md b/docs/synchro.md
@@ -122,3 +122,9 @@ Limite : un débrief créé sur un autre appareil n'est visible ici qu'après la
 - À l'application (transaction validée), `apresApplication` émet `budget.depense_creee`, `budget.depense_confirmee`, `budget.solde_modifie` (payeur membre) et, au franchissement, `budget.depassement_previsionnel`.
 - Base locale : version 3 (magasins `budget_expense`, `budget_category`, `budget_payer`).
 - Test e2e : `e2e/budget-hors-ligne.spec.ts` (projet « hors-ligne »).
+
+## Dépenses de Budget : modification et suppression (tâche 2.7)
+
+- `budget_expense` accepte les opérations `modifier` et `supprimer`, avec la même règle qu'en ligne (`src/apps/budget/depenses-tx.ts`) : contribution propre (on ne modifie que ses lignes au niveau contribution), payeur contrôlé, montant non inférieur à ce qui est remboursé.
+- Après application, `apresApplication` reçoit le type de l'opération : une création émet les événements de la dépense ; une modification ou une suppression émet `budget.solde_modifie` pour le payeur membre.
+- Le registre passe le type de l'opération à `apresApplication(ctx, id, type)`.
